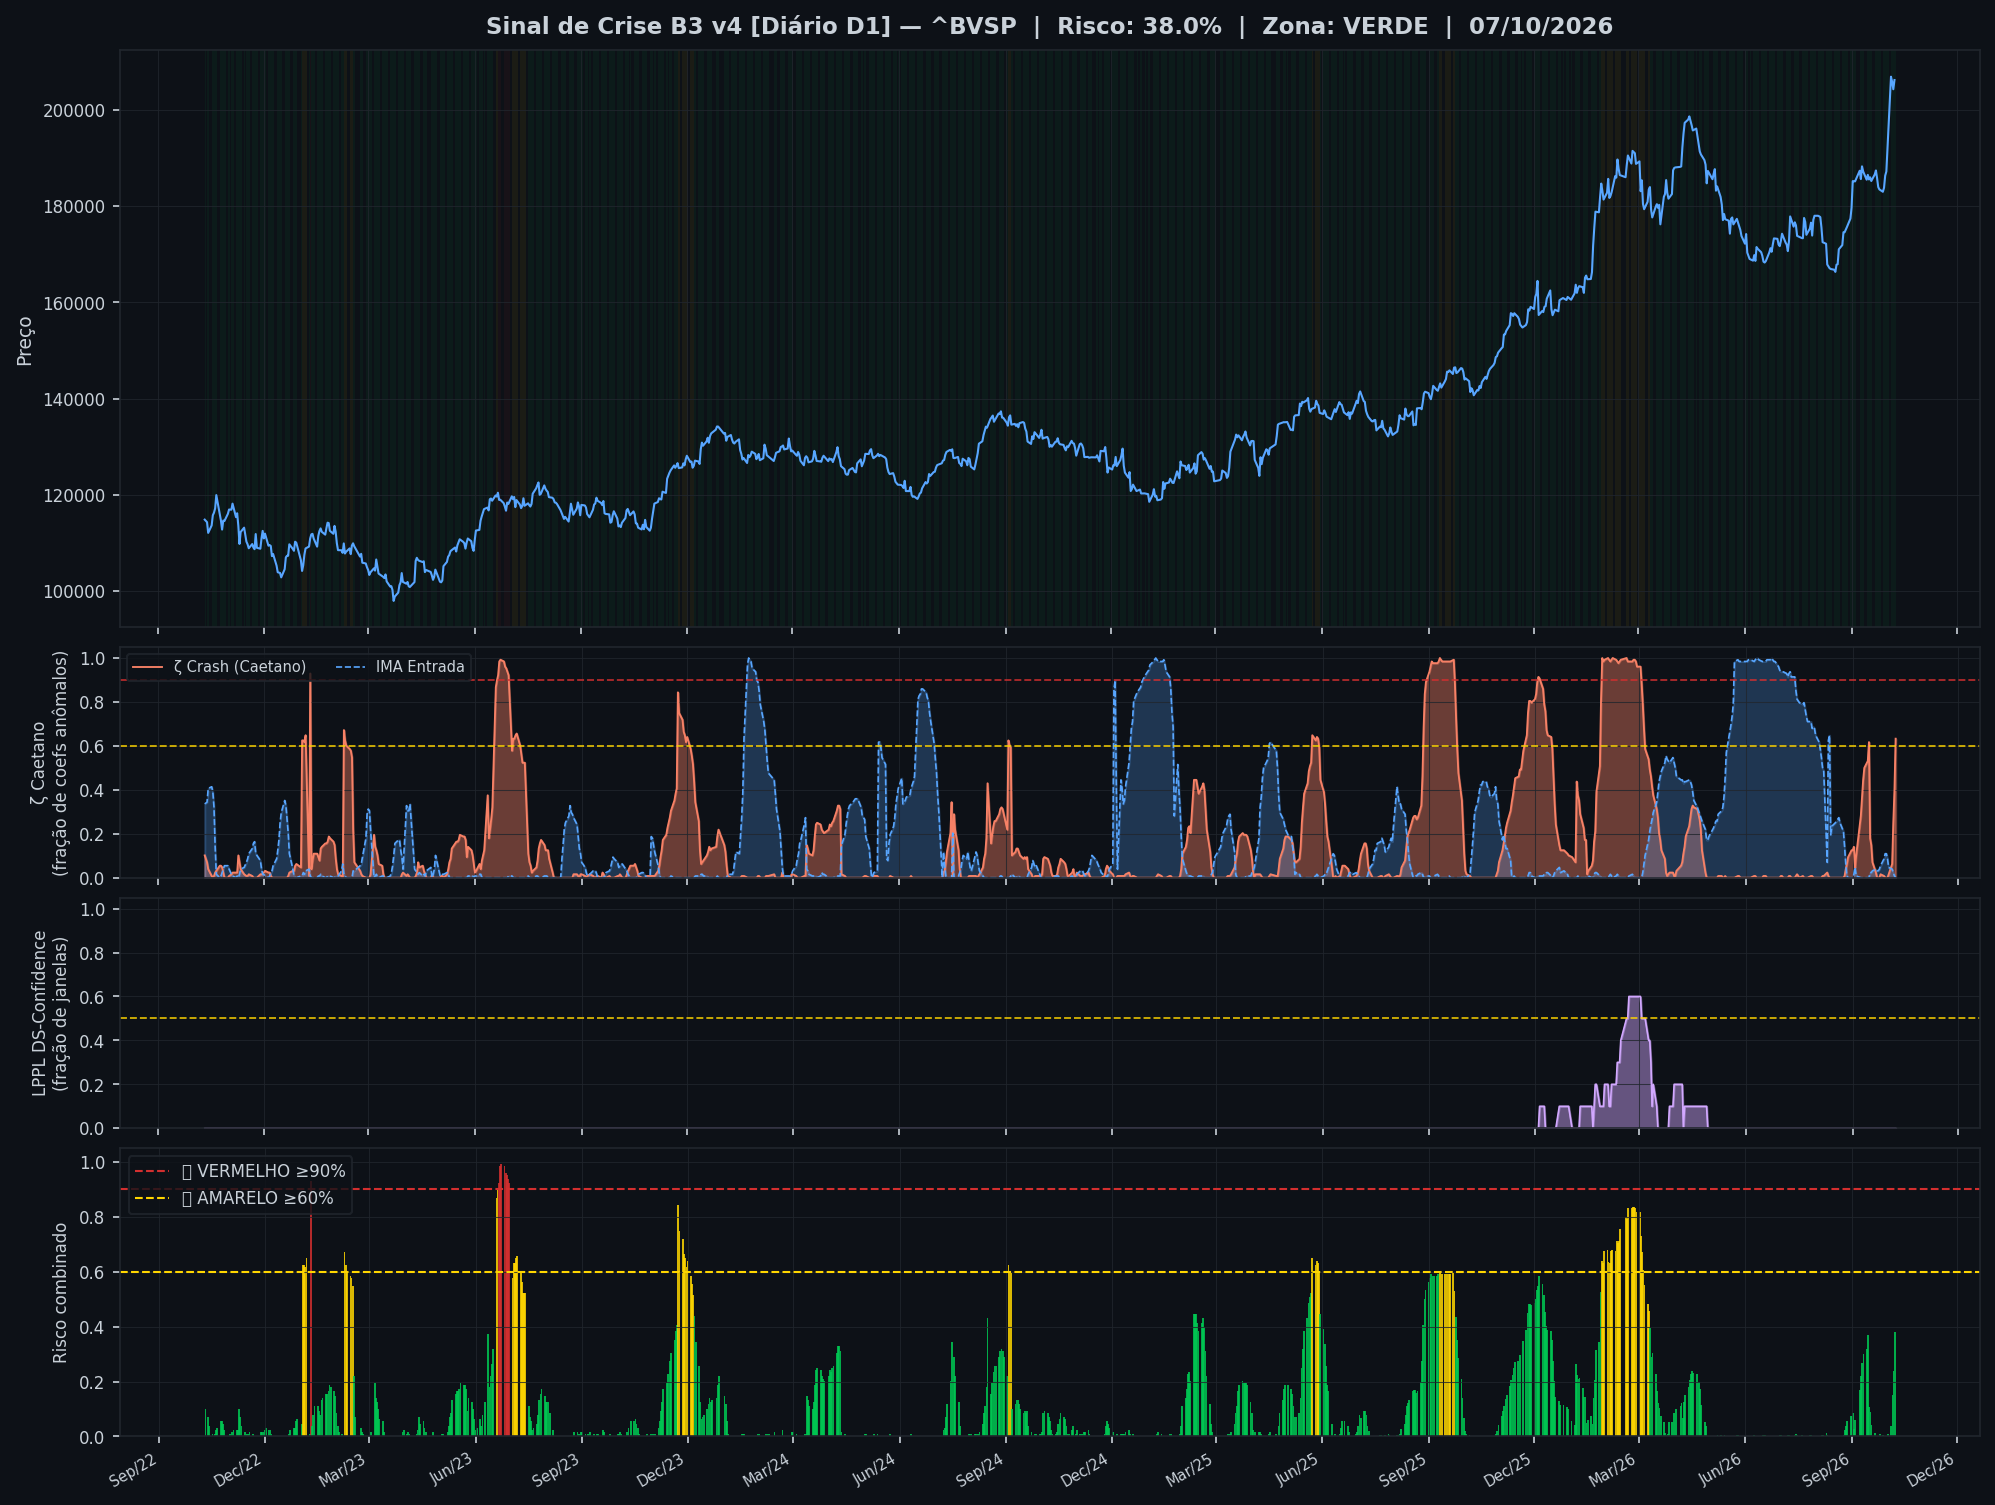
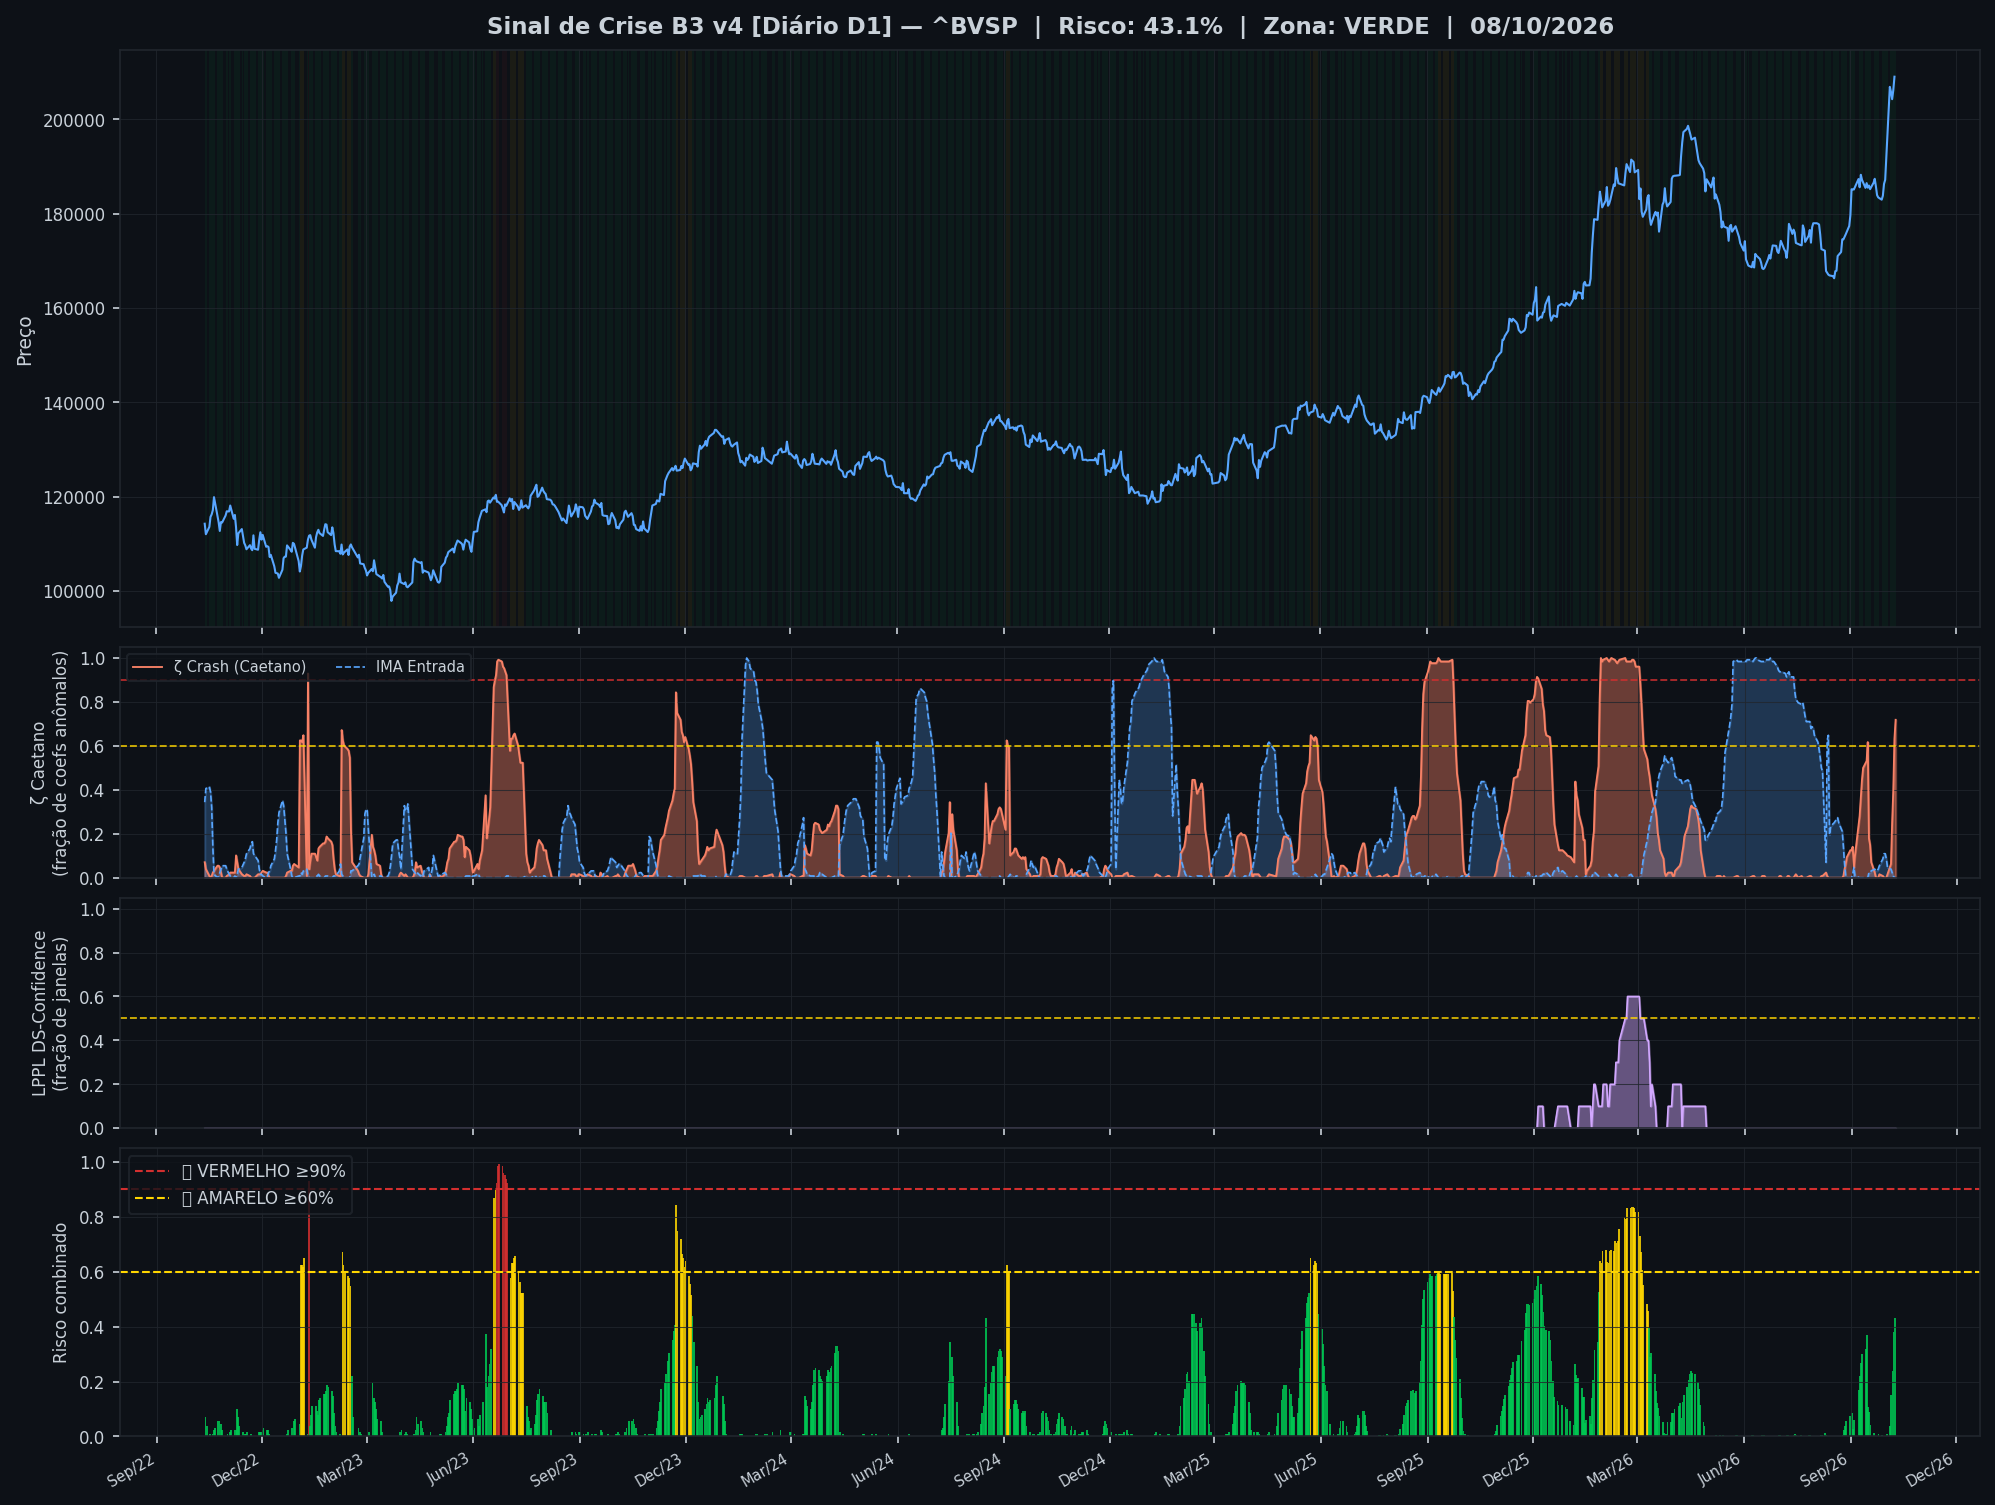
🤖 Auto: Sinal 09/10/2026 19:00

diff --git a/content/diario/2026-10-08.md b/content/diario/2026-10-08.md
@@ -1,0 +1,102 @@
+---
+title: "🟢 Diário 08/10/2026 — VERDE"
+date: 2026-10-09
+tags: [diario]
+---
+
+> [!success] 🟢 **VERDE** — Risco 43% · ▲ +5 p.p. vs leitura anterior
+> `█████████░░░░░░░░░░░`
+> Mercado sem sinais relevantes de estresse.
+
+
+| Indicador | Valor |
+|---|---|
+| 🔴 ζ Crash — severidade da queda em curso | **72%** |
+| 🔵 ζ Entrada — estrutura de fundo | 0% |
+| 🫧 LPPL DS-Confidence | 0% |
+| 📊 Ibovespa | 209.067 pts |
+
+![Gráfico do sinal](../graficos/sinal_diario.png)
+
+## Últimos 30 pregões
+
+| Data | Zona | Risco | IMA Crash | Entrada | LPPL |
+|---|---|---|---|---|---|
+| 2026-10-08 21:00 | 🟢 VERDE | **43%** | 72% | 0% | 0% |
+| 2026-10-07 21:00 | 🟢 VERDE | **38%** | 63% | 0% | 0% |
+| 2026-10-06 21:00 | 🟢 VERDE | **24%** | 40% | 1% | 0% |
+| 2026-10-05 21:00 | 🟢 VERDE | **15%** | 25% | 2% | 0% |
+| 2026-10-04 21:00 | 🟢 VERDE | **4%** | 6% | 4% | 0% |
+| 2026-10-01 21:00 | 🟢 VERDE | **1%** | 2% | 5% | 0% |
+| 2026-09-30 21:00 | 🟢 VERDE | **0%** | 0% | 9% | 0% |
+| 2026-09-29 21:00 | 🟢 VERDE | **0%** | 0% | 11% | 0% |
+| 2026-09-28 21:00 | 🟢 VERDE | **0%** | 0% | 11% | 0% |
+| 2026-09-27 21:00 | 🟢 VERDE | **0%** | 1% | 9% | 0% |
+| 2026-09-24 21:00 | 🟢 VERDE | **1%** | 2% | 5% | 0% |
+| 2026-09-23 21:00 | 🟢 VERDE | **0%** | 0% | 4% | 0% |
+| 2026-09-22 21:00 | 🟢 VERDE | **0%** | 0% | 3% | 0% |
+| 2026-09-21 21:00 | 🟢 VERDE | **0%** | 0% | 3% | 0% |
+| 2026-09-20 21:00 | 🟢 VERDE | **1%** | 2% | 4% | 0% |
+| 2026-09-17 21:00 | 🟢 VERDE | **4%** | 7% | 3% | 0% |
+| 2026-09-16 21:00 | 🟢 VERDE | **9%** | 15% | 2% | 0% |
+| 2026-09-15 21:00 | 🟢 VERDE | **11%** | 18% | 2% | 0% |
+| 2026-09-14 21:00 | 🟢 VERDE | **37%** | 62% | 0% | 0% |
+| 2026-09-13 21:00 | 🟢 VERDE | **32%** | 53% | 0% | 0% |
+| 2026-09-10 21:00 | 🟢 VERDE | **30%** | 50% | 0% | 0% |
+| 2026-09-09 21:00 | 🟢 VERDE | **27%** | 45% | 0% | 0% |
+| 2026-09-08 21:00 | 🟢 VERDE | **22%** | 37% | 0% | 0% |
+| 2026-09-07 21:00 | 🟢 VERDE | **17%** | 28% | 0% | 0% |
+| 2026-09-03 21:00 | 🟢 VERDE | **6%** | 10% | 1% | 0% |
+| 2026-09-02 21:00 | 🟢 VERDE | **3%** | 5% | 5% | 0% |
+| 2026-09-01 21:00 | 🟢 VERDE | **8%** | 14% | 2% | 0% |
+| 2026-08-31 21:00 | 🟢 VERDE | **8%** | 12% | 0% | 0% |
+| 2026-08-30 21:00 | 🟢 VERDE | **8%** | 12% | 0% | 0% |
+| 2026-08-27 21:00 | 🟢 VERDE | **6%** | 9% | 0% | 0% |
+
+## Monitor Multi-Ativo
+
+**0% dos ativos em tensão** (0🔴 0🟡) — quanto mais ativos disparam juntos, mais confiável o sinal.
+
+| Zona | Ativo | Setor | IMA Crash | IMA Entrada |
+|---|---|---|---|---|
+| 🟢 | **ITAUUNIBANCO** | Financeiro | 0.0% | 98.4% |
+| 🟢 | **VALE** | Mineração | 0.0% | 98.4% |
+| 🟢 | **PETROBRAS** | Petróleo | 0.0% | 98.4% |
+| 🟢 | **PETROBRAS** | Petróleo | 0.0% | 98.4% |
+| 🟢 | **AXIA ENERGIA** | Energia | 0.0% | 98.4% |
+| 🟢 | **SABESP** | Saneamento | 0.0% | 98.4% |
+| 🟢 | **B3** | Financeiro | 0.0% | 98.4% |
+| 🟢 | **BRADESCO** | Financeiro | 0.0% | 98.4% |
+| 🟢 | **ITAUSA** | Financeiro | 0.0% | 98.4% |
+| 🟢 | **BTGP BANCO** | Financeiro | 0.0% | 98.4% |
+| 🟢 | **WEG** | Industrial | 0.0% | 98.4% |
+| 🟢 | **BRASIL** | Financeiro | 0.0% | 98.4% |
+| 🟢 | **AMBEV S/A** | Consumo | 0.0% | 98.4% |
+| 🟢 | **EMBRAER** | Outros | 0.0% | 98.4% |
+| 🟢 | **EQUATORIAL** | Energia | 0.0% | 98.4% |
+| 🟢 | **ENEVA** | Energia | 0.0% | 98.4% |
+| 🟢 | **COPEL** | Energia | 0.0% | 98.4% |
+| 🟢 | **LOCALIZA** | Aluguel | 0.0% | 98.4% |
+| 🟢 | **PRIO** | Petróleo | 0.0% | 98.4% |
+| 🟢 | **REDE D OR** | Saúde | 0.0% | 98.4% |
+| 🟢 | **VIBRA** | Energia | 0.0% | 98.4% |
+| 🟢 | **ULTRAPAR** | Outros | 0.0% | 98.4% |
+| 🟢 | **GERDAU** | Siderurgia | 0.0% | 98.4% |
+| 🟢 | **USD/BRL** | Câmbio | 0.0% | 18.8% |
+
+![Monitor multi-ativo](../graficos/multi_diario.png)
+
+*Página atualizada em 09/10/2026 19:00 BRT (leitura da barra de 2026-10-08 BRT).*
+
+> [!info]- Como interpretar (clique para expandir)
+> - **ζ Crash**: fração dos coeficientes wavelet acima do corte (Caetano & Yoneyama 2009). Escala absoluta: ζ=0,90 = 90% dos coeficientes anômalos — historicamente, quedas com ζ≥0,90 foram mais fundas e mais longas. **Mede a severidade do movimento em curso, não prevê o início da queda.**
+> - **ζ Entrada**: coeficientes negativos além do corte — estrutura de fundo, possível região de compra.
+> - **LPPL DS-Confidence**: fração de janelas (60–504 pregões) em que o modelo de bolha de Sornette produz um ajuste válido. 30% já é relevante; acima de 50% é forte evidência de estrutura de bolha.
+> - **Zonas com histerese**: o sinal só muda de zona ao cruzar o limiar de entrada, e só volta ao cruzar o de saída — evita flip-flop diário.
+
+
+---
+*Sinal de Crise B3 v4 · IMA Wavelet ([Caetano & Yoneyama, Physica-A 2007](https://doi.org/10.1016/j.physa.2007.03.054)) + LPPL DS-Confidence (Sornette, ETH-Zurich) · [Metodologia](metodologia) · [Histórico](historico)*
+
+> [!quote]- Aviso
+> Estudo acadêmico. Não constitui recomendação de investimento.

diff --git a/content/index.md b/content/index.md
@@ -8,19 +8,19 @@ tags: [home]
 
 Monitoramento diário e intraday do Ibovespa — **IMA Wavelet** (Prof. Marco Antonio Leonel Caetano, ITA/INSPER) + **LPPL DS-Confidence** (Prof. Didier Sornette, ETH-Zurich).
 
-*Última atualização: 09/10/2026 17:30 BRT · ^BVSP · Intraday 15min · v4*
+*Última atualização: 09/10/2026 19:00 BRT · ^BVSP · Diário D1 · v4*
 
-> [!success] 🟢 **VERDE** — Risco 0% · ＝ +0 p.p. vs leitura anterior
-> `░░░░░░░░░░░░░░░░░░░░`
+> [!success] 🟢 **VERDE** — Risco 43% · ▲ +5 p.p. vs leitura anterior
+> `█████████░░░░░░░░░░░`
 > Mercado sem sinais relevantes de estresse.
 
 
 | Indicador | Valor |
 |---|---|
-| 🔴 ζ Crash — severidade da queda em curso | **0%** |
-| 🔵 ζ Entrada — estrutura de fundo | 31% |
+| 🔴 ζ Crash — severidade da queda em curso | **72%** |
+| 🔵 ζ Entrada — estrutura de fundo | 0% |
 | 🫧 LPPL DS-Confidence | 0% |
-| 📊 Ibovespa | 209.017 pts |
+| 📊 Ibovespa | 209.067 pts |
 
 **Multi-ativo:** 0% em tensão (0🔴 0🟡 de 24 ativos)
 
@@ -32,8 +32,13 @@ Monitoramento diário e intraday do Ibovespa — **IMA Wavelet** (Prof. Marco An
 
 | Data | Zona | Risco | IMA | LPPL |
 |---|---|---|---|---|
-| [09 Oct 2026](diario/2026-10-09) | 🟢 VERDE | **0%** | 0% | 0% |
-| [08 Oct 2026](diario/2026-10-08) | 🟢 VERDE | **0%** | 0% | 0% |
+| [08 Oct 2026](diario/2026-10-08) | 🟢 VERDE | **43%** | 72% | 0% |
+| [07 Oct 2026](diario/2026-10-07) | 🟢 VERDE | **38%** | 63% | 0% |
+| [06 Oct 2026](diario/2026-10-06) | 🟢 VERDE | **24%** | 40% | 0% |
+| [05 Oct 2026](diario/2026-10-05) | 🟢 VERDE | **15%** | 25% | 0% |
+| [04 Oct 2026](diario/2026-10-04) | 🟢 VERDE | **4%** | 6% | 0% |
+| [01 Oct 2026](diario/2026-10-01) | 🟢 VERDE | **1%** | 2% | 0% |
+| [30 Sep 2026](diario/2026-09-30) | 🟢 VERDE | **0%** | 0% | 0% |
 
 ## Navegação
 

diff --git a/content/historico.md b/content/historico.md
@@ -7,6 +7,7 @@ tags: [historico]
 
 | Data | Modo | Zona | Risco | IMA | LPPL |
 |---|---|---|---|---|---|
+| 2026-10-08 | diario | 🟢 VERDE | 43% | 72% | 0% |
 | 2026-10-09 16:45 | intraday | 🟢 VERDE | 0% | 0% | 0% |
 | 2026-10-09 16:30 | intraday | 🟢 VERDE | 0% | 0% | 0% |
 | 2026-10-09 16:15 | intraday | 🟢 VERDE | 0% | 0% | 0% |
